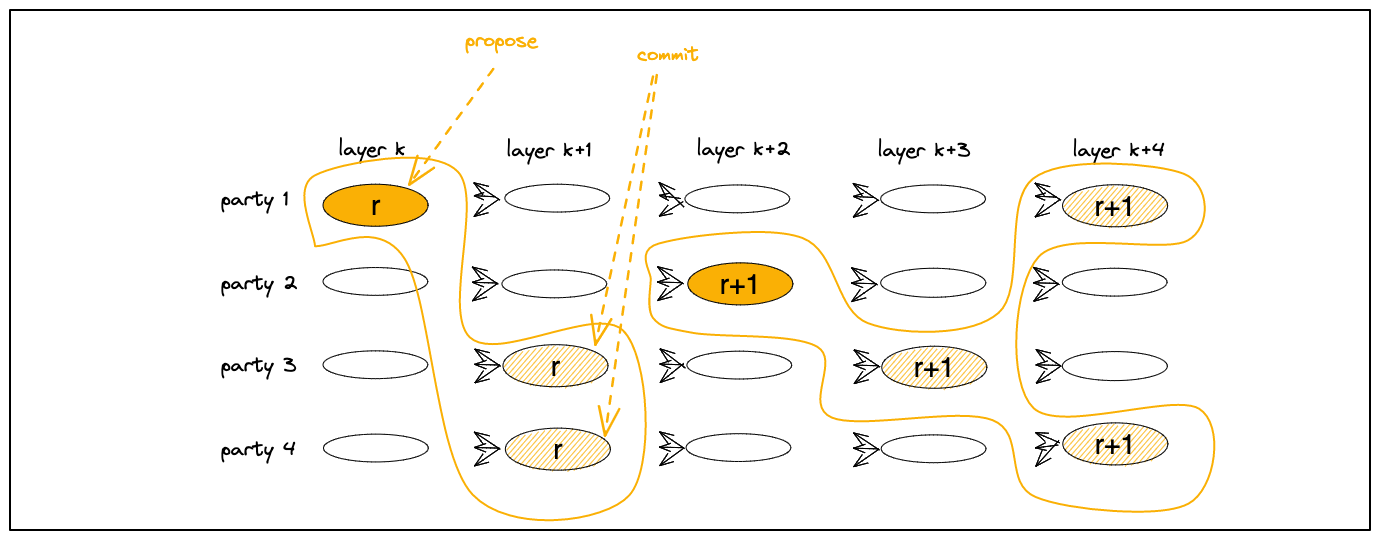
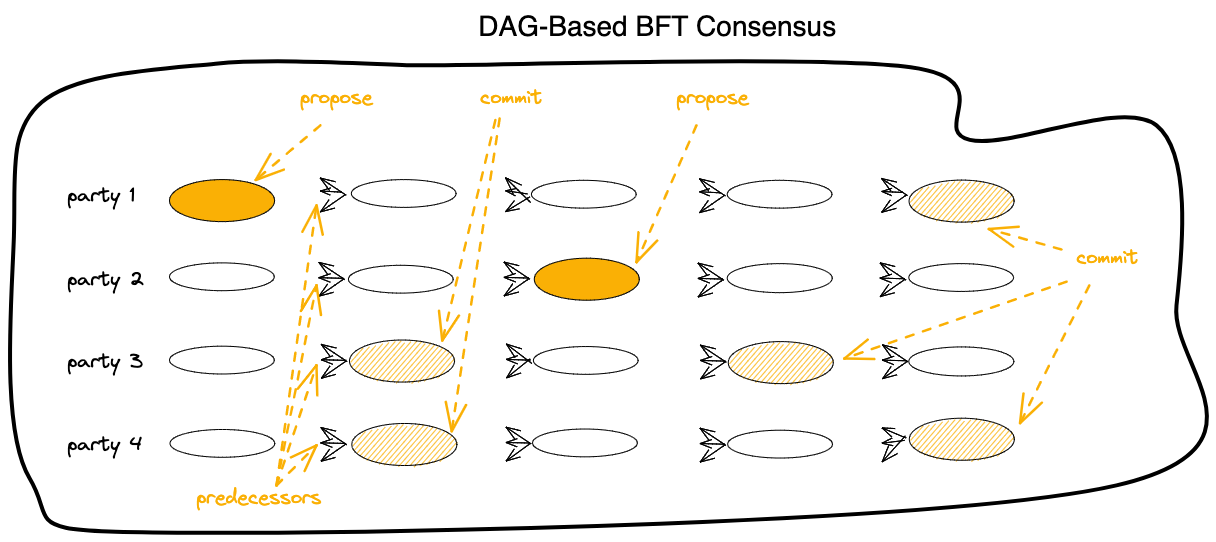
working on DAG draft

diff --git a/_drafts/DAG-BFT.md b/_drafts/DAG-BFT.md
@@ -1,4 +1,4 @@
-  <img src="/images/FIN/propose-commit.png" width="750"  class="center"  />
+  <img src="/images/FIN/cover.png" width="600"  class="center"  />
 
 ## Away Monolithic BFT Consensus; Enter DAG-based BFT Consensus
 
